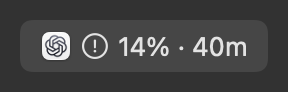
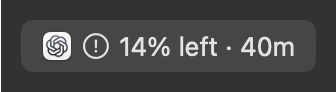
Say "left" in the menu bar, and bump to 1.1.1
1.1.0 flipped the menu bar to the remaining percentage but showed a bare
number, and 1.0 put the used percentage in the same spot — so anyone upgrading
would read 66% as 66% used. The single-limit mode now reads "66% left · 40m".

The all-services mode stays bare because the menu bar has no room for three
labels; its option in the panel now says it shows what's left instead.

Claude-Session: https://claude.ai/code/session_01CXQheMVpnLJxEWpEb9Pihj

Changed region(s): [[0.125, 0.3478, 0.875, 0.6522], [0.0, 0.0, 0.0312, 1.0]]

diff --git a/Tests/UsageCoreTests/UsageCoreTests.swift b/Tests/UsageCoreTests/UsageCoreTests.swift
@@ -348,7 +348,7 @@ final class DisplayTests: LocalizedTestCase {
             windows: [UsageWindow(kind: .session(hours: 5), usedPercent: 11,
                                   resetsAt: now.addingTimeInterval(3 * 3600 + 600))],
             updatedAt: now)
-        XCTAssertEqual(menuBarText(for: [u], now: now), "89% · 3시간")
+        XCTAssertEqual(menuBarText(for: [u], now: now), "89% 남음 · 3시간")
     }
 
     /// 패널의 사용 비율과 합이 100이어야 한다. 33.5를 따로 반올림하면 34 + 67 = 101이 된다.
@@ -357,7 +357,7 @@ final class DisplayTests: LocalizedTestCase {
             provider: .claude,
             windows: [UsageWindow(kind: .session(hours: 5), usedPercent: 33.5, resetsAt: nil)],
             updatedAt: Date())
-        XCTAssertEqual(menuBarText(for: [u]), "66%")
+        XCTAssertEqual(menuBarText(for: [u]), "66% 남음")
     }
 
     func testAllUnavailableGivesDash() {

diff --git a/Sources/UsageCore/Usage.swift b/Sources/UsageCore/Usage.swift
@@ -143,10 +143,11 @@ func remainingText(_ used: Double) -> String { "\(100 - Int(used.rounded()))%" }
 
 /// 메뉴바 한 줄에 들어갈 텍스트. 아이콘은 호출하는 쪽이 붙인다.
 /// 고르는 기준은 여전히 "가장 많이 쓴 것"이고, 보여주는 숫자만 남은 비율이다.
+/// `.all` 모드는 자리가 좁아 "남음" 을 빼고, 패널의 선택지 설명이 대신 밝힌다.
 public func menuBarText(for usages: [ProviderUsage], now: Date = Date()) -> String {
     guard let (_, window) = mostUrgent(among: usages),
           let used = window.usedPercent else { return "—" }
-    let pct = remainingText(used)
+    let pct = L10n.left(remainingText(used))
     if let t = window.timeToReset(now: now) { return "\(pct) · \(t)" }
     return pct
 }

diff --git a/Sources/UsageCore/L10n.swift b/Sources/UsageCore/L10n.swift
@@ -100,7 +100,12 @@ public enum L10n {
         pick("한도에 가장 가까운 하나", "just the one closest to its limit")
     }
     public static var styleAllHint: String {
-        pick("세 서비스 전부", "all three services")
+        pick("세 서비스의 남은 비율", "what's left on all three")
+    }
+    /// 메뉴바 숫자가 남은 쪽이라는 표시. 1.0 은 같은 자리에 사용량을 띄웠으므로
+    /// 숫자만 두면 기존 사용자가 거꾸로 읽는다.
+    public static func left(_ percent: String) -> String {
+        pick("\(percent) 남음", "\(percent) left")
     }
     public static var refreshEvery: String { pick("갱신 주기", "Refresh every") }
     public static var refreshHint: String {

diff --git a/README.md b/README.md
@@ -27,7 +27,7 @@ out — the one that can actually block you right now:
 
 <picture>
   <source media="(prefers-color-scheme: dark)" srcset="docs/menubar-urgent-en-dark.png">
-  <img src="docs/menubar-urgent-en-light.png" width="146" alt="Menu bar showing the most urgent limit">
+  <img src="docs/menubar-urgent-en-light.png" width="168" alt="Menu bar showing the most urgent limit">
 </picture>
 
 Or all three at once, if you'd rather see everything:

diff --git a/README.ko.md b/README.ko.md
@@ -27,7 +27,7 @@
 
 <picture>
   <source media="(prefers-color-scheme: dark)" srcset="docs/menubar-urgent-ko-dark.png">
-  <img src="docs/menubar-urgent-ko-light.png" width="146" alt="가장 급한 한도를 표시한 메뉴바">
+  <img src="docs/menubar-urgent-ko-light.png" width="170" alt="가장 급한 한도를 표시한 메뉴바">
 </picture>
 
 세 서비스를 한 번에 보고 싶으면 이렇게도 됩니다.
